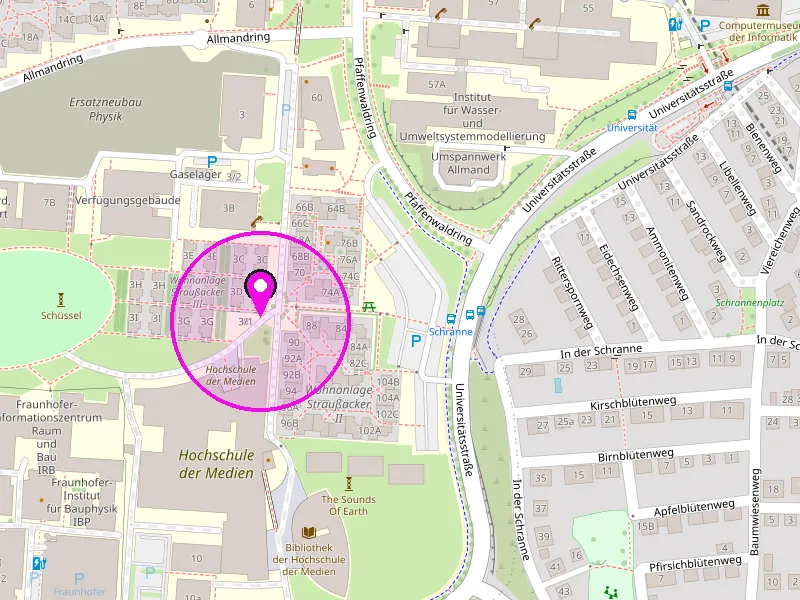
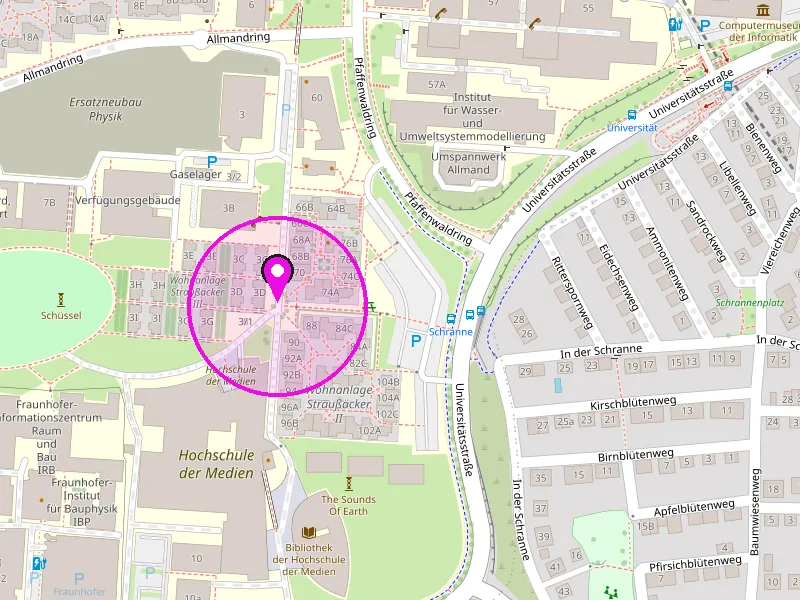
Markierung auf der Anfahrt-Karte etwas nach Norden und Osten verschoben (48.74276, 9.10169)

Changed region(s): [[0.1875, 0.36, 0.4688, 0.69]]

diff --git a/web/src/config.ts b/web/src/config.ts
@@ -61,8 +61,8 @@ export const karte = {
   breite: 800,
   hoehe: 600,
   /** Koordinaten der Markierung (Mitte der Wohnanlagen), für den OpenStreetMap-Link. */
-  breitengrad: 48.74265,
-  laengengrad: 9.1015,
+  breitengrad: 48.74276,
+  laengengrad: 9.10169,
 };
 
 /**

diff --git a/web/werkzeug/karte.py b/web/werkzeug/karte.py
@@ -22,7 +22,7 @@ from PIL import Image, ImageDraw
 
 ZOOM = 17
 MITTE = (48.7428, 9.1030)  # Bildmitte: Gelände und S-Bahn Universität passen beide drauf
-GELAENDE = (48.74265, 9.1015)  # Markierung: Mitte der Wohnanlagen Straußäcker I–III
+GELAENDE = (48.74276, 9.10169)  # Markierung: Mitte der Wohnanlagen Straußäcker I–III
 BREITE, HOEHE = 800, 600
 PINK = (238, 12, 227)
 
